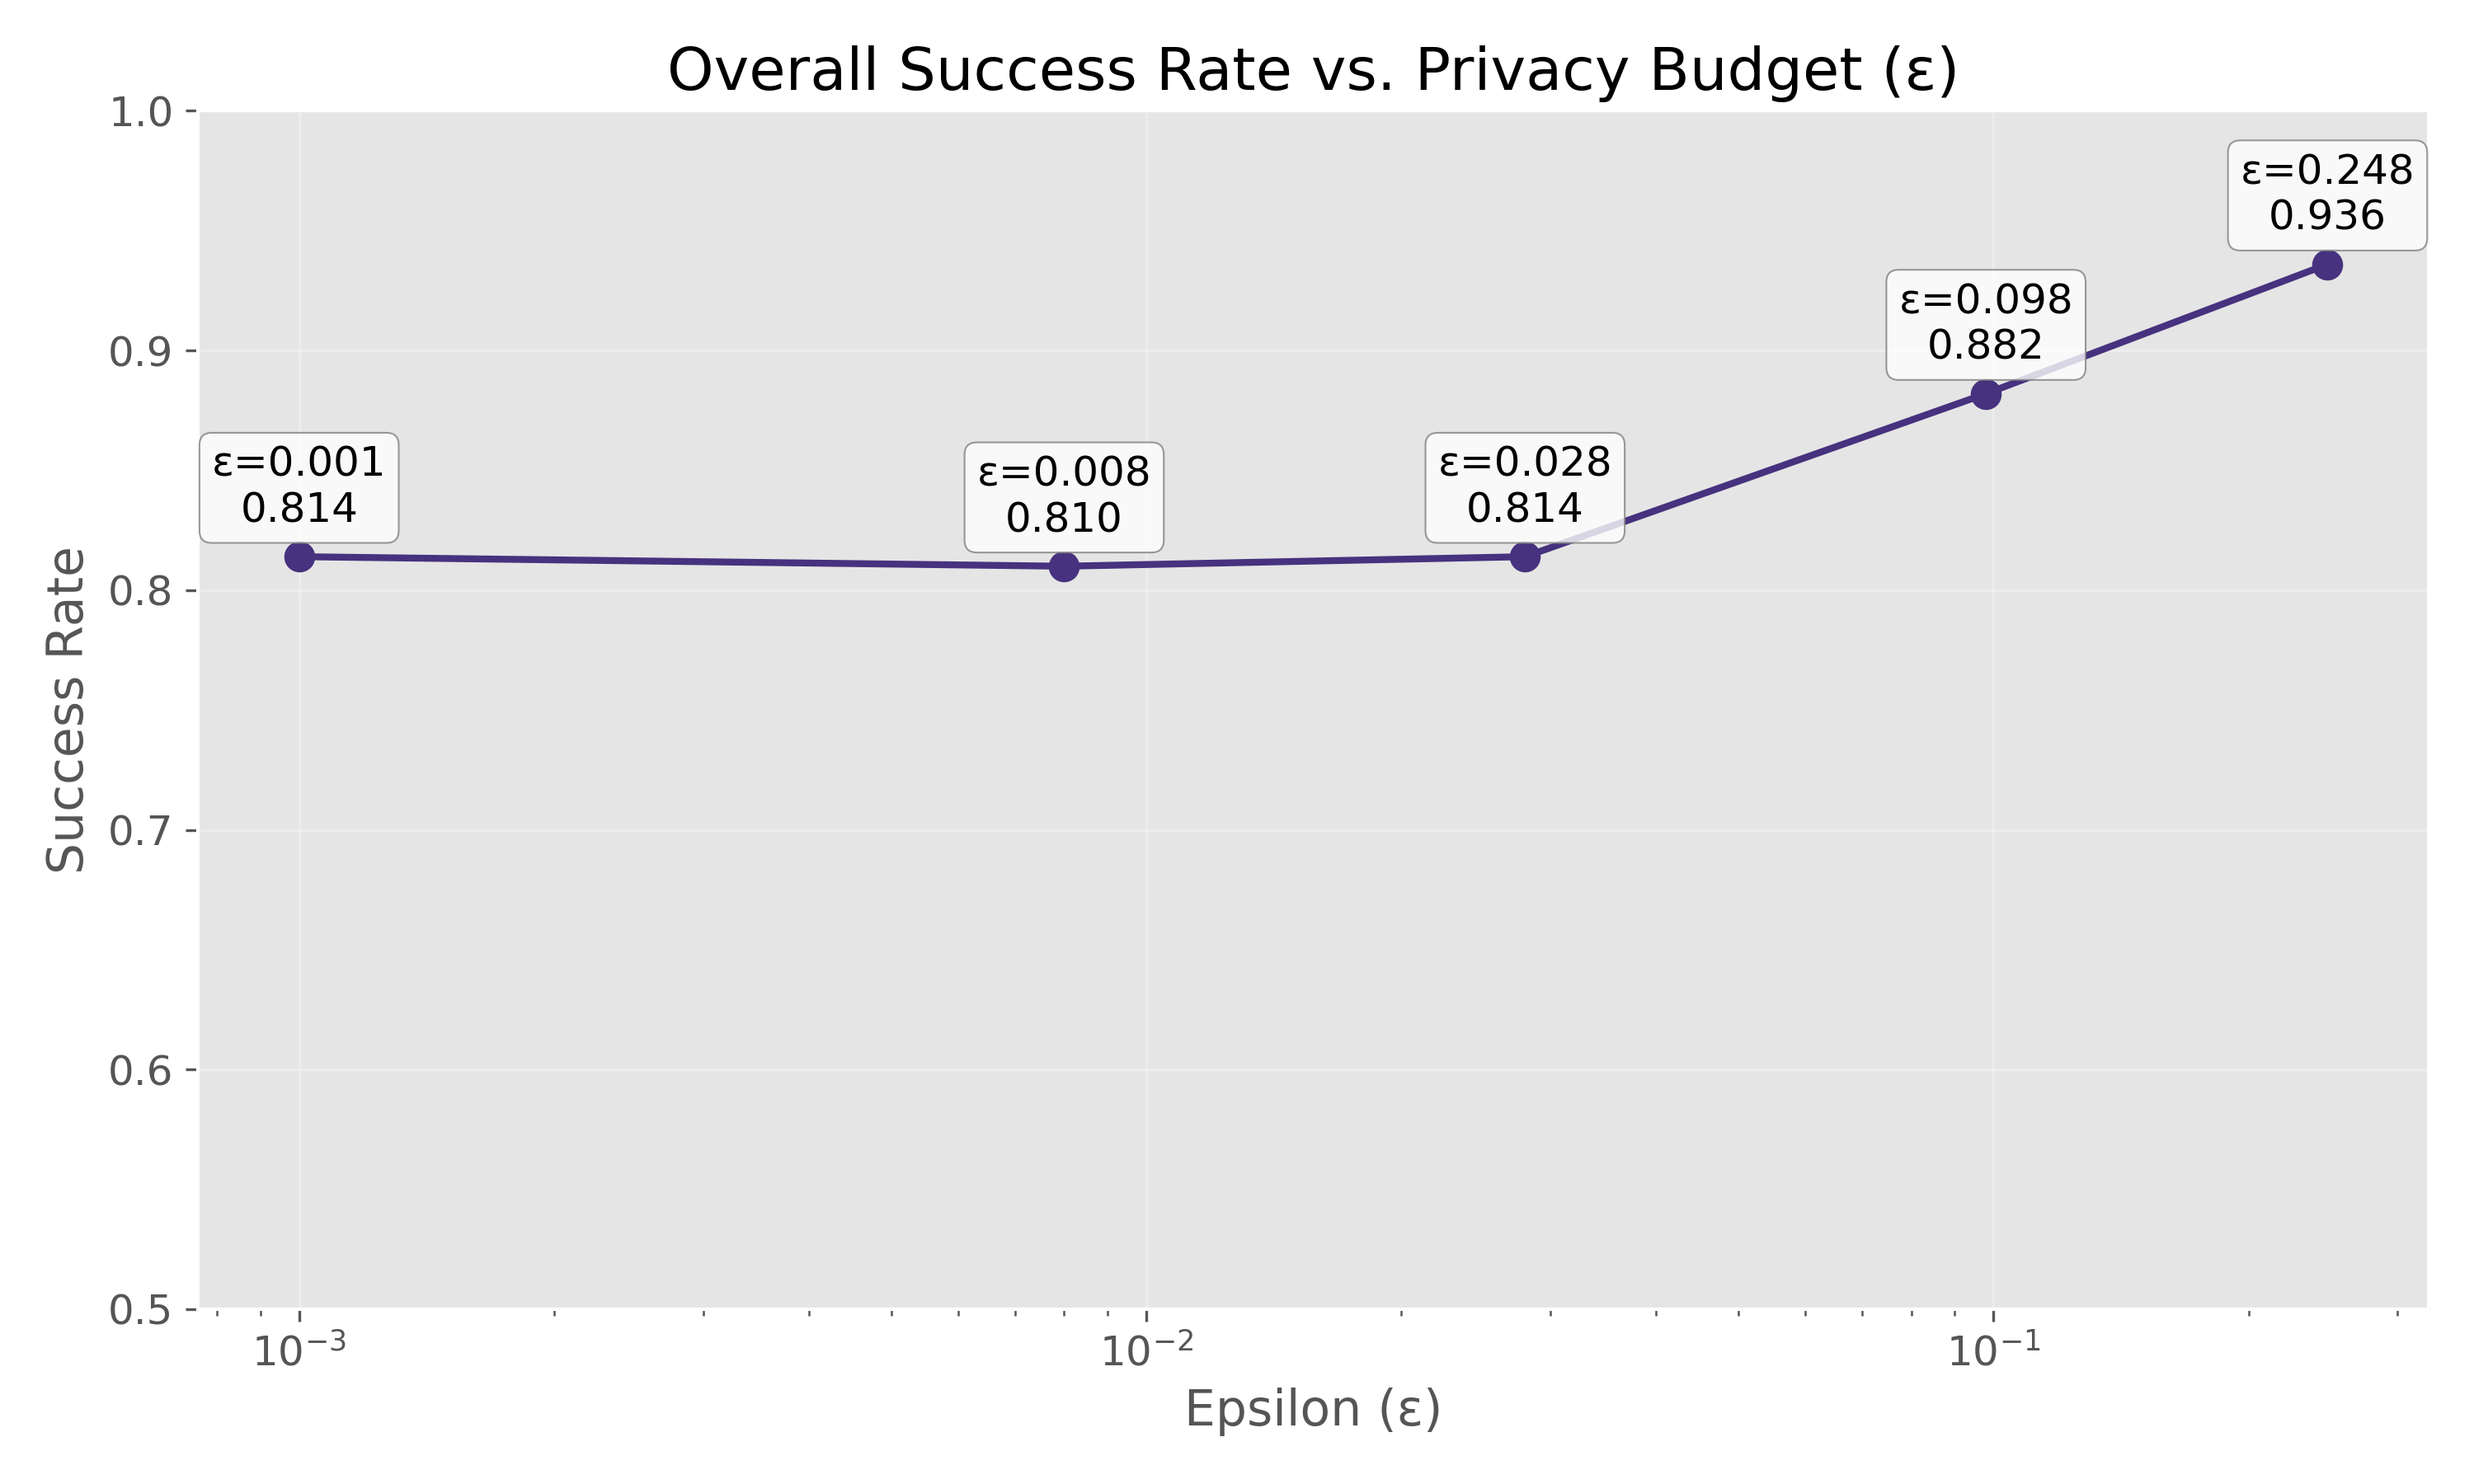
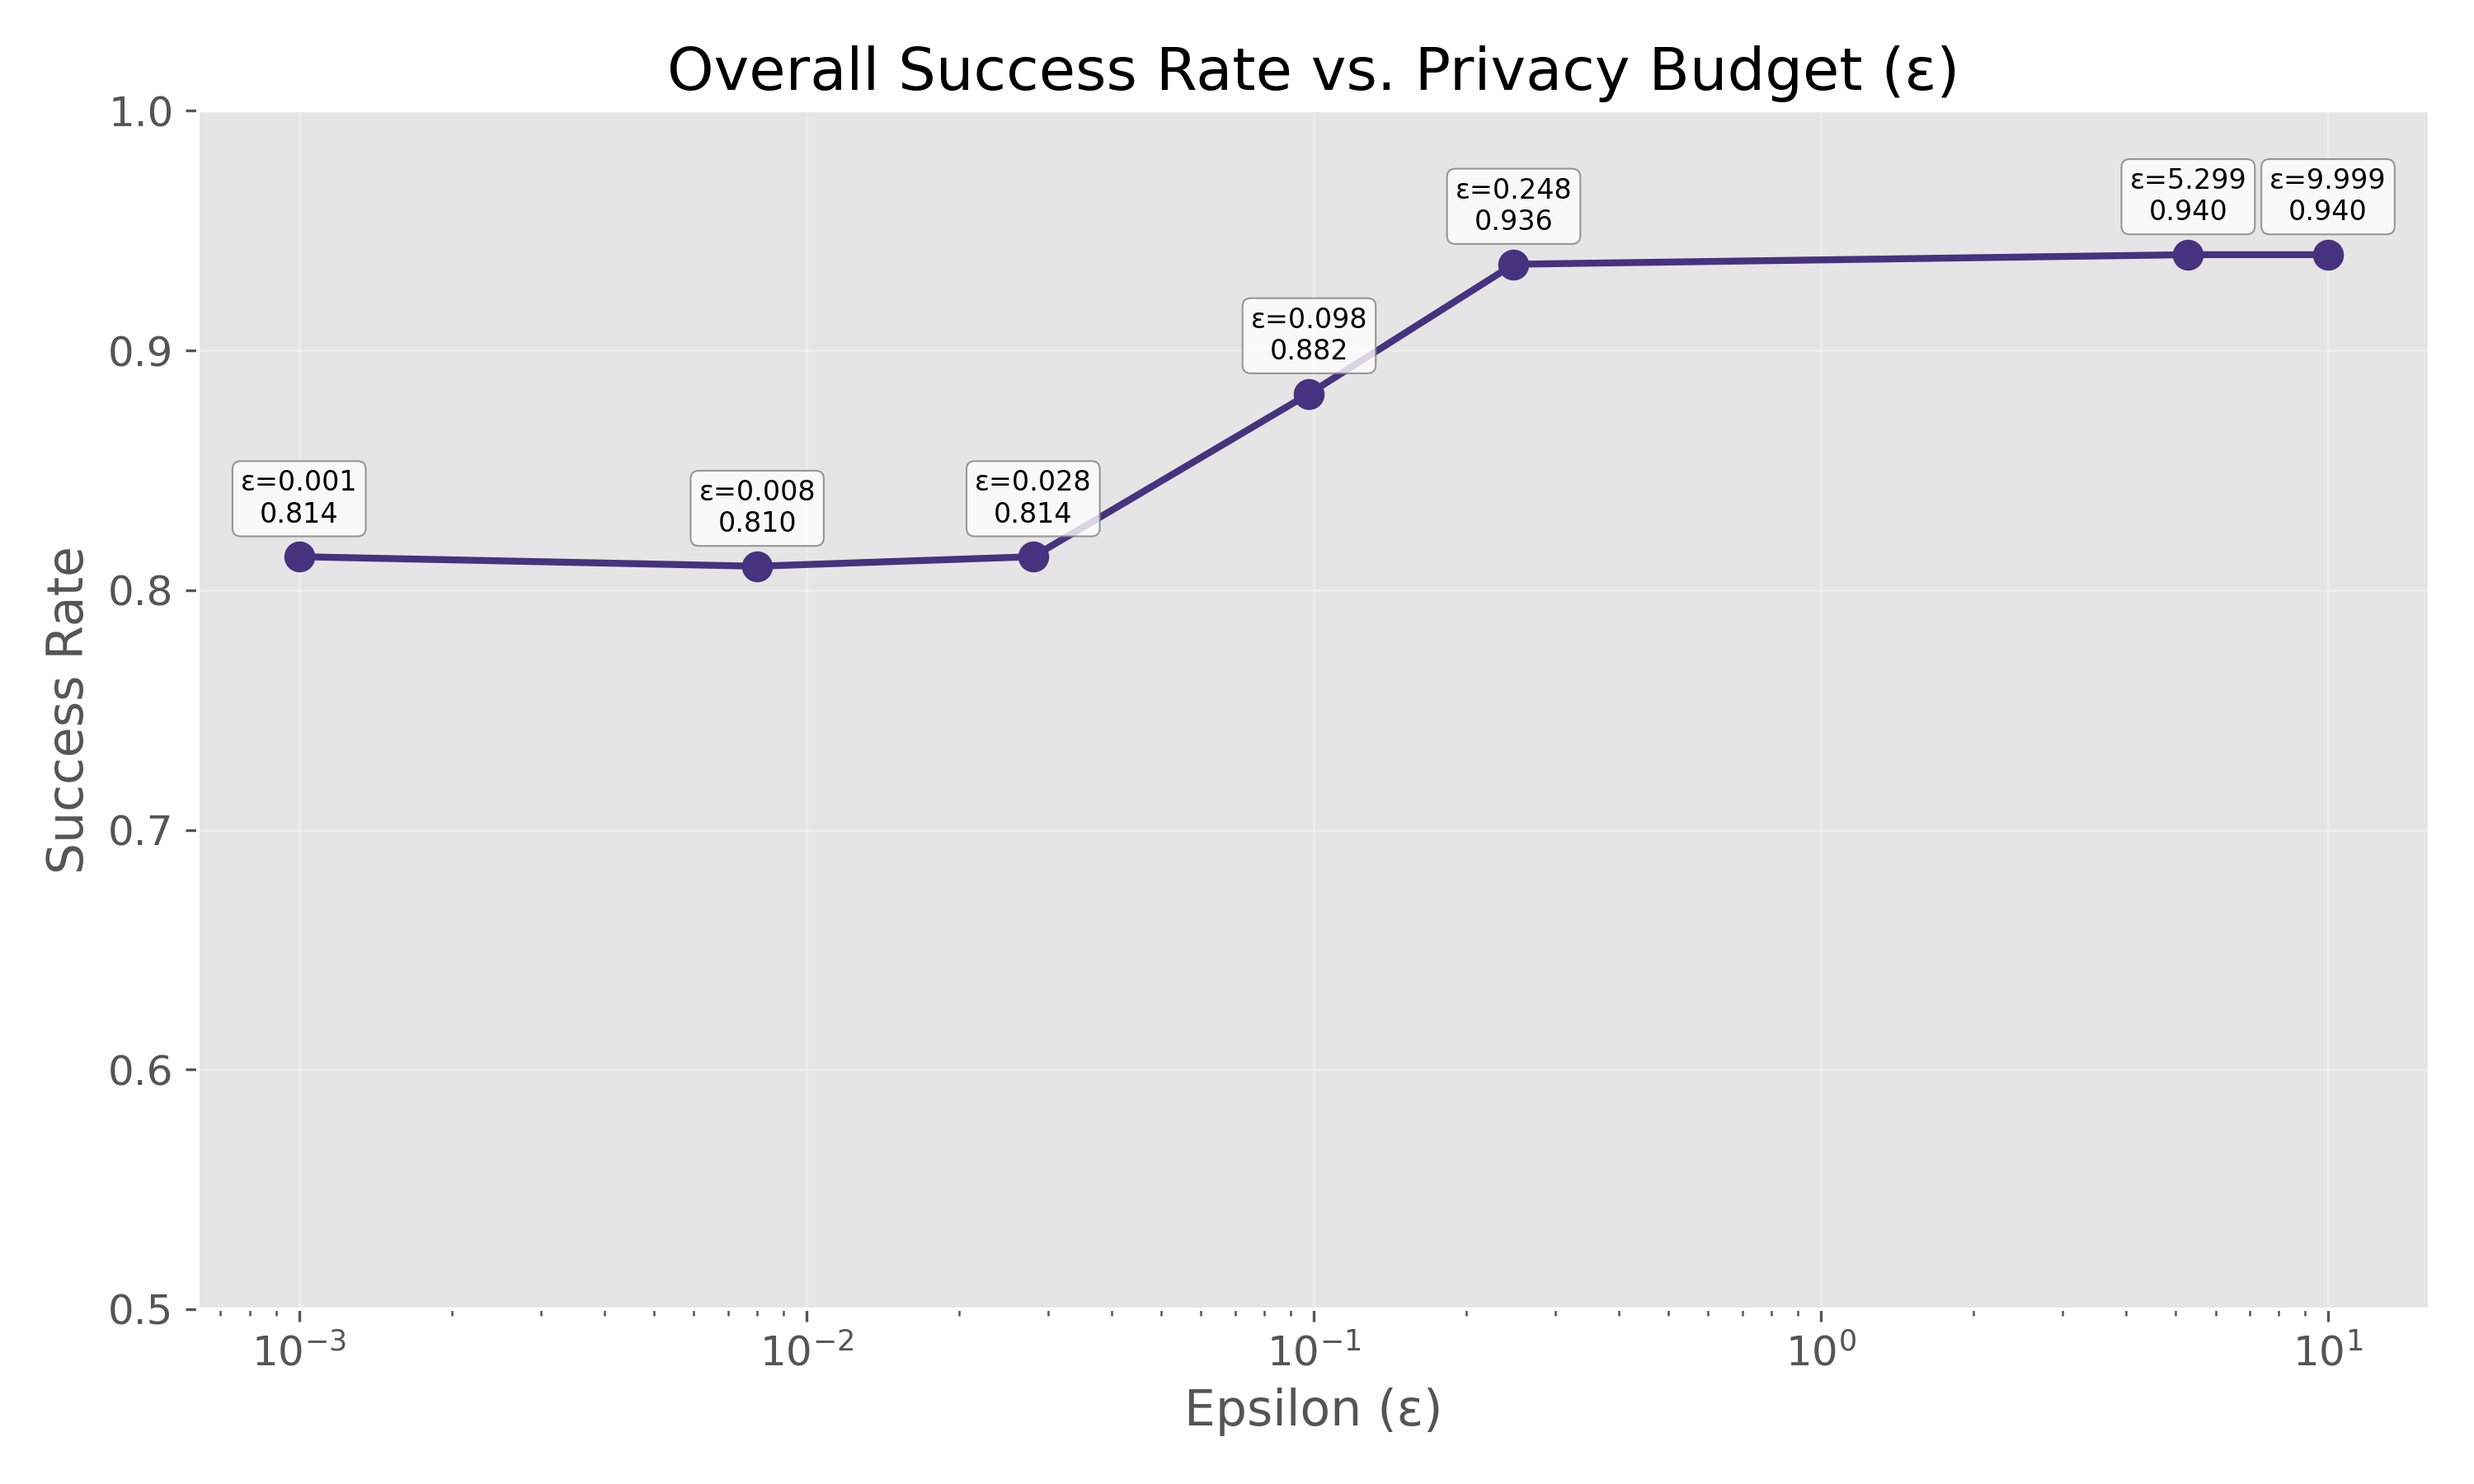
/update viz

diff --git a/visualization.py b/visualization.py
@@ -44,7 +44,7 @@ def extract_disease_data(evaluation_data, epsilon):
     return pd.DataFrame(diseases)
 
 def load_all_data():
-    epsilon_values = [0.001, 0.008, 0.028, 0.098, 0.248]
+    epsilon_values = [0.001, 0.008, 0.028, 0.098, 0.248, 5.299, 9.999]
     results_data = {}
     all_disease_data = []
 
@@ -93,6 +93,7 @@ def plot_overall_success_rate(df):
                      textcoords="offset points", 
                      xytext=(0,10), 
                      ha='center',
+                     fontsize = 8, 
                      bbox=dict(boxstyle="round,pad=0.3", fc="white", ec="gray", alpha=0.8))
     
     plt.tight_layout()
@@ -108,7 +109,7 @@ def plot_disease_success_rates(df):
     
     top_df = df[df['disease'].isin(top_diseases)]
     
-    fig, axes = plt.subplots(1, 5, figsize=(24, 10), sharey=True)
+    fig, axes = plt.subplots(1, 7, figsize=(24, 10), sharey=True)
     epsilon_values = sorted(df['epsilon'].unique())
     
     viridis = plt.cm.viridis
